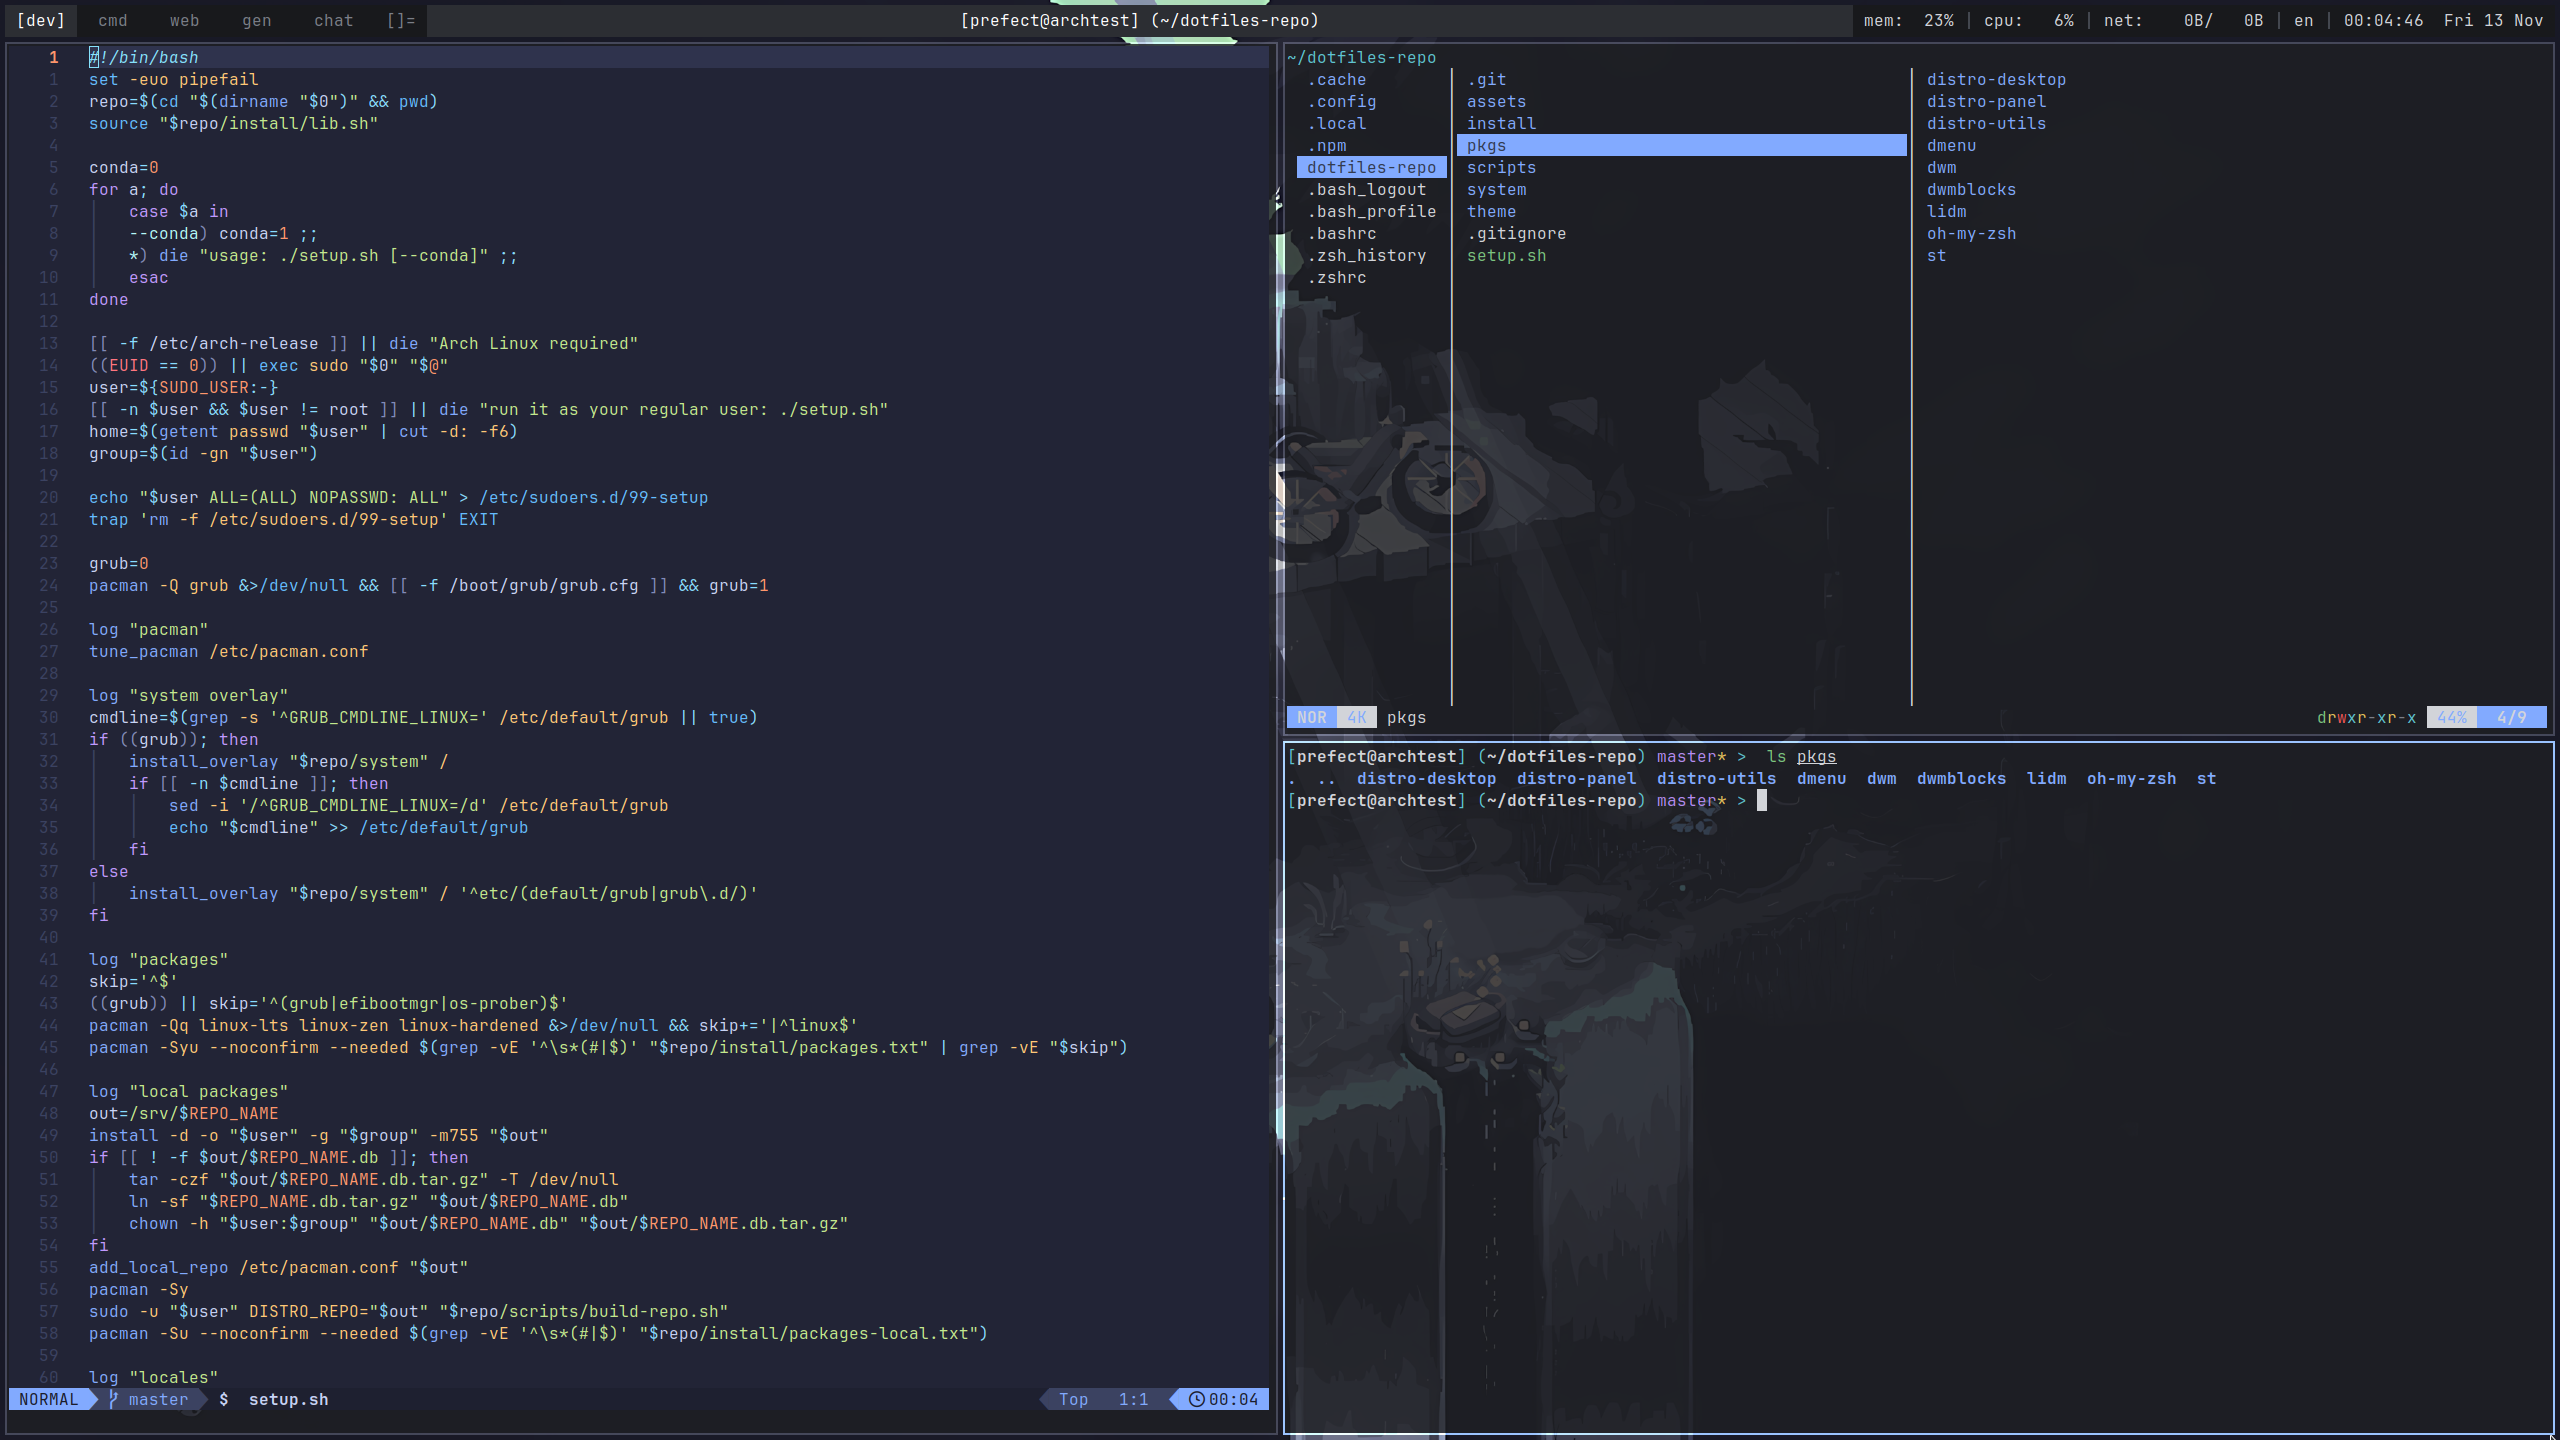
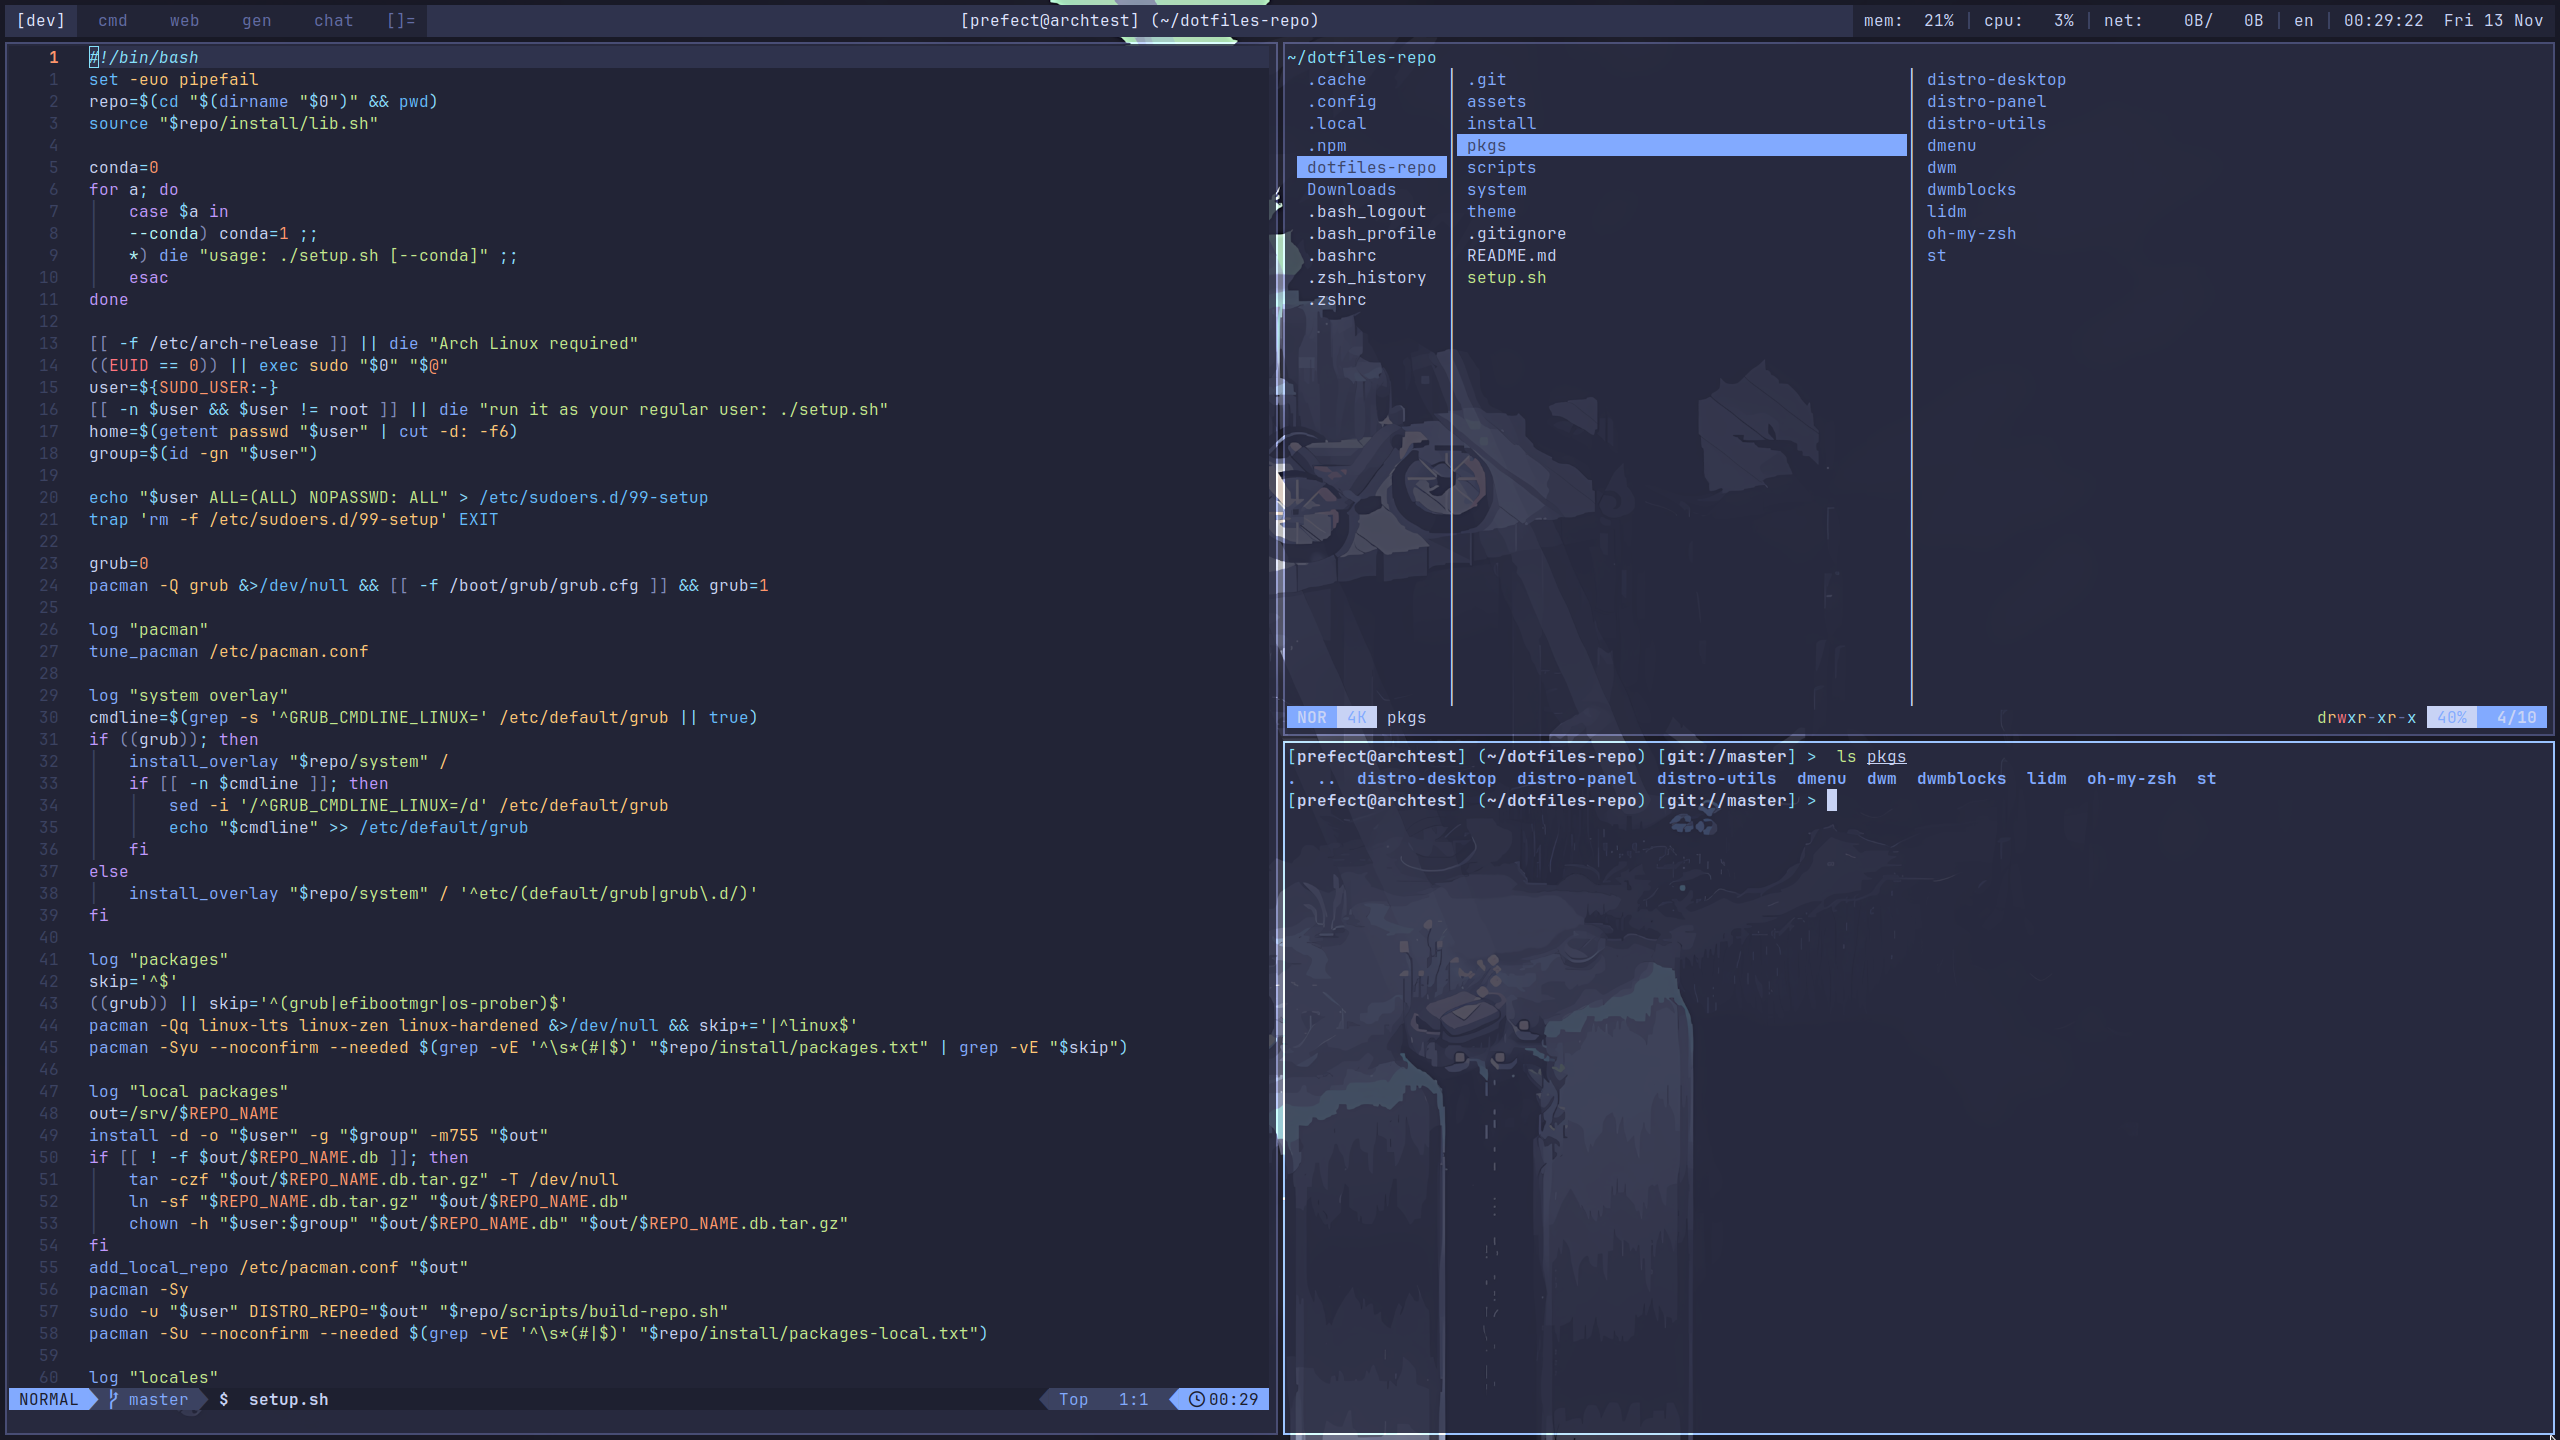
update colors

diff --git a/pkgs/distro-desktop/files/share/firefox/newtab.html b/pkgs/distro-desktop/files/share/firefox/newtab.html
@@ -8,15 +8,15 @@ html, body {
 	margin: 0;
 	height: 100%;
 	background: transparent;
-	color: #d2d4d9;
+	color: #c8d3f5;
 	font: 15px "JetBrains Mono", monospace;
 }
 main {
 	box-sizing: border-box;
 	width: min(960px, calc(100% - 16px));
 	margin: 0 auto;
-	background: #18191c;
-	border: 1px solid #43474f;
+	background: #1e2030;
+	border: 1px solid #3b4261;
 	border-top: none;
 }
 header {
@@ -28,7 +28,7 @@ header span {
 	padding: 0 14px;
 	cursor: default;
 	user-select: none;
-	background: #2c2e33;
+	background: #2f334d;
 	color: #ffffff;
 }
 a, .edit {
@@ -36,7 +36,7 @@ a, .edit {
 	height: 36px;
 	line-height: 36px;
 	padding: 0 14px;
-	color: #d2d4d9;
+	color: #c8d3f5;
 	text-decoration: none;
 	outline: none;
 	white-space: nowrap;
@@ -44,7 +44,7 @@ a, .edit {
 b {
 	flex: none;
 	width: 3ch;
-	color: #7b7f88;
+	color: #828bb8;
 	font-weight: normal;
 }
 a span {
@@ -60,13 +60,13 @@ a em {
 	overflow: hidden;
 	text-overflow: ellipsis;
 	text-align: right;
-	color: #7b7f88;
+	color: #828bb8;
 	font-style: normal;
 }
 a i {
 	display: none;
 	padding-left: 2ch;
-	color: #7b7f88;
+	color: #828bb8;
 	font-style: normal;
 	cursor: pointer;
 }
@@ -80,10 +80,10 @@ a i.del:hover {
 	color: #f05454;
 }
 a:hover {
-	background: #222327;
+	background: #262a40;
 }
 a:focus, .edit {
-	background: #2c2e33;
+	background: #2f334d;
 	box-shadow: inset 2px 0 0 #82aaff;
 	color: #ffffff;
 }
@@ -102,7 +102,7 @@ input {
 	font: inherit;
 }
 input::placeholder {
-	color: #7b7f88;
+	color: #828bb8;
 }
 input.name {
 	flex: 0 0 30%;

diff --git a/pkgs/distro-desktop/files/share/firefox/chrome.css b/pkgs/distro-desktop/files/share/firefox/chrome.css
@@ -1,11 +1,11 @@
 @-moz-document url(chrome://browser/content/browser.xhtml) {
 	:root {
-		--d-bg: #18191c;
-		--d-page: rgba(24, 25, 28, 0.8);
-		--d-hover: #222327;
-		--d-sel: #2c2e33;
-		--d-fg: #d2d4d9;
-		--d-dim: #7b7f88;
+		--d-bg: #1e2030;
+		--d-page: rgba(34, 36, 54, 0.8);
+		--d-hover: #262a40;
+		--d-sel: #2f334d;
+		--d-fg: #c8d3f5;
+		--d-dim: #828bb8;
 		--d-acc: #82aaff;
 		--border-radius-small: 0px !important;
 		--border-radius-medium: 0px !important;

diff --git a/pkgs/distro-desktop/files/share/firefox/content.css b/pkgs/distro-desktop/files/share/firefox/content.css
@@ -1,3 +1,3 @@
 html:root {
-	background-color: light-dark(#ffffff, #18191c);
+	background-color: light-dark(#ffffff, #222436);
 }

diff --git a/pkgs/dwm/dwm/colors.h b/pkgs/dwm/dwm/colors.h
@@ -1,8 +1,8 @@
-static const char col_bg[]     = "#18191c";
-static const char col_sel[]    = "#2c2e33";
-static const char col_fg[]     = "#d2d4d9";
-static const char col_fgsel[]  = "#ffffff";
-static const char col_dim[]    = "#7b7f88";
+static const char col_bg[]     = "#222436";
+static const char col_sel[]    = "#2f334d";
+static const char col_fg[]     = "#c8d3f5";
+static const char col_fgsel[]  = "#e0e6ff";
+static const char col_dim[]    = "#636da6";
 static const char col_accent[] = "#82aaff";
-static const char col_urg[]    = "#f05454";
-static const char col_line[]   = "#43474f";
+static const char col_urg[]    = "#ff757f";
+static const char col_line[]   = "#3b4261";

diff --git a/pkgs/dmenu/dmenu/colors.h b/pkgs/dmenu/dmenu/colors.h
@@ -1,9 +1,9 @@
 static const char *colors[SchemeLast][2] = {
-	[SchemeNorm]   = { "#d2d4d9", "#18191c" },
-	[SchemeSel]    = { "#ffffff", "#2c2e33" },
-	[SchemeOut]    = { "#18191c", "#82aaff" },
-	[SchemeNormHl] = { "#82aaff", "#18191c" },
-	[SchemeSelHl]  = { "#a3bdff", "#2c2e33" },
-	[SchemeSep]    = { "#d2d4d9", "#18191c" },
+	[SchemeNorm]   = { "#c8d3f5", "#222436" },
+	[SchemeSel]    = { "#e0e6ff", "#2f334d" },
+	[SchemeOut]    = { "#222436", "#82aaff" },
+	[SchemeNormHl] = { "#82aaff", "#222436" },
+	[SchemeSelHl]  = { "#9ab8ff", "#2f334d" },
+	[SchemeSep]    = { "#c8d3f5", "#222436" },
 };
 static const char *bordercolor = "#82aaff";

diff --git a/pkgs/st/st/colors.h b/pkgs/st/st/colors.h
@@ -1,25 +1,25 @@
 static const char *colorname[] = {
-	"#18191c",
-	"#f05454",
-	"#7bc47f",
-	"#e7c25c",
+	"#222436",
+	"#ff757f",
+	"#c3e88d",
+	"#ffc777",
 	"#82aaff",
-	"#b48cf2",
-	"#5fc4d0",
-	"#d2d4d9",
-	"#7b7f88",
-	"#ff7a7a",
-	"#9ad89d",
-	"#f2d483",
-	"#a3bdff",
-	"#caa9f7",
-	"#86d8e2",
-	"#ffffff",
+	"#c099ff",
+	"#86e1fc",
+	"#c8d3f5",
+	"#636da6",
+	"#ff8d94",
+	"#d0f09e",
+	"#ffd08f",
+	"#9ab8ff",
+	"#cdaaff",
+	"#a7ebfd",
+	"#e0e6ff",
 
 	[255] = 0,
 
-	"#ffffff",
-	"#7b7f88",
-	"#d2d4d9",
-	"#18191c",
+	"#e0e6ff",
+	"#636da6",
+	"#c8d3f5",
+	"#222436",
 };

diff --git a/pkgs/distro-panel/panel/colors.h b/pkgs/distro-panel/panel/colors.h
@@ -1,13 +1,13 @@
 static const char *colors[] = {
-	"#18191c",
-	"#2c2e33",
-	"#d2d4d9",
-	"#ffffff",
-	"#7b7f88",
+	"#222436",
+	"#2f334d",
+	"#c8d3f5",
+	"#e0e6ff",
+	"#636da6",
 	"#82aaff",
 	"#82aaff",
-	"#7bc47f",
-	"#f05454",
-	"#e7c25c",
-	"#b48cf2",
+	"#c3e88d",
+	"#ff757f",
+	"#ffc777",
+	"#c099ff",
 };
